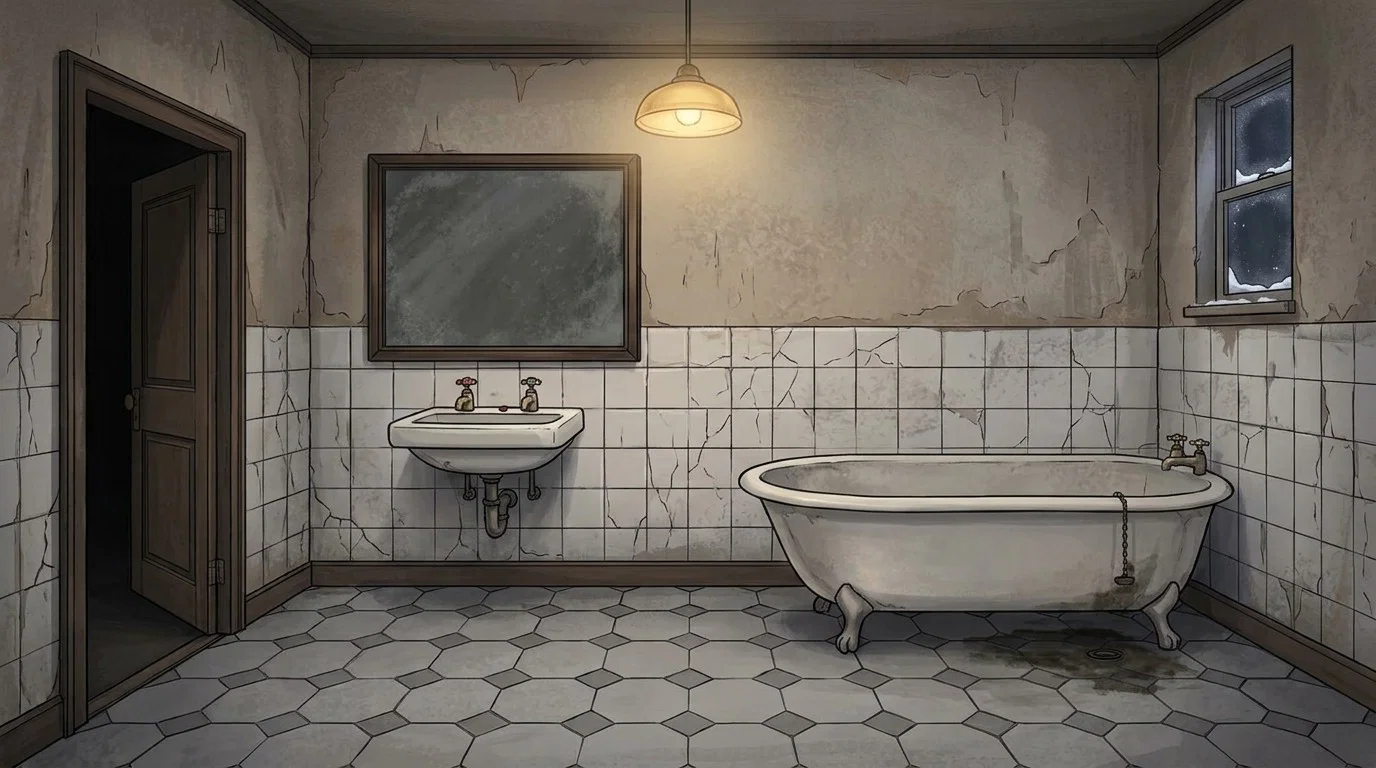
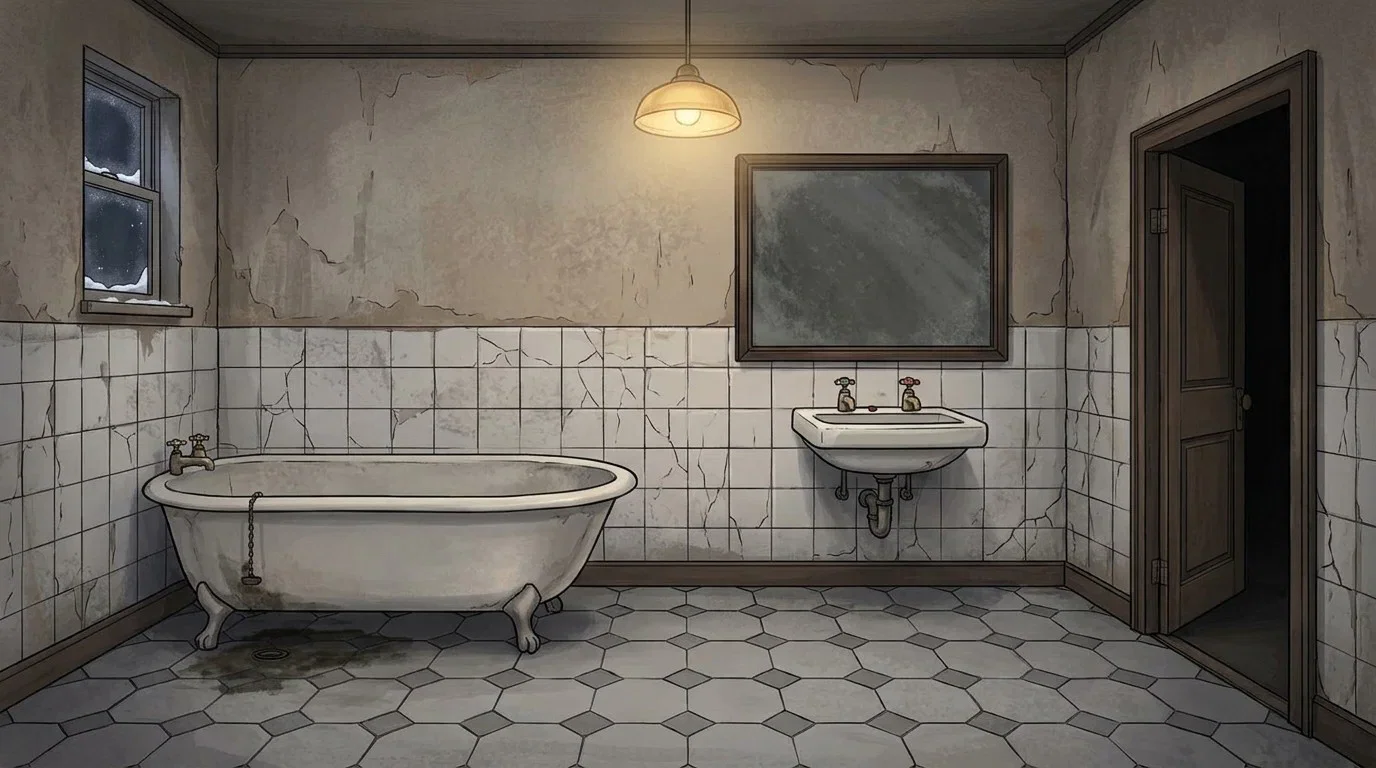
Mirror the bathroom so its door is on the right; add attic and Jingles
- The three bathroom pictures are flipped so the door matches the house
  plan; the click spots, present, digit and turns moved with them, and
  the highlight starts at the door. Tests follow the new left-to-right
  order.
- Real pictures for the attic and Scary Jingles asleep and awake
  (same armchair and size, so they can swap in place); credits updated.

diff --git a/godot/assets/CREDITS.md b/godot/assets/CREDITS.md
@@ -21,18 +21,18 @@ When real artwork replaces a placeholder, update its row: source, author, licenc
 |------|--------|--------|--------|---------|---------|-------|
 | room_garden.webp | images | generated with Google Gemini from our own text prompt | Gloria | AI-generated, own prompt | Yes (Google Gemini, Nano Banana 2.1) | 1376 x 768 |
 | room_hall.webp | images | generated with Google Gemini from our own text prompt | Gloria | AI-generated, own prompt | Yes (Google Gemini, Nano Banana 2.1) | 1376 x 768 |
-| room_attic.webp | images | `godot/tools/make_placeholders.gd` | team script | own work | No | placeholder |
+| room_attic.webp | images | generated with Google Gemini from our own text prompt | Gloria | AI-generated, own prompt | Yes (Google Gemini, Nano Banana 2.1) | stairs come up at the front left |
 | room_living_room_dark.webp | images | generated with Google Gemini from our own text prompt | Gloria | AI-generated, own prompt | Yes (Google Gemini, Nano Banana 2.1) | door on the right as in the house plan |
 | room_living_room_lit.webp | images | generated with Google Gemini from our own text prompt | Gloria | AI-generated, own prompt | Yes (Google Gemini, Nano Banana 2.1) | door on the right as in the house plan |
-| room_bathroom_dark.webp | images | generated with Google Gemini from our own text prompt | Gloria | AI-generated, own prompt | Yes (Google Gemini, Nano Banana 2.1) | edit of room_bathroom_lit, lamp off; tub shows empty, to redo with water, 1376 x 768 |
-| room_bathroom_lit.webp | images | generated with Google Gemini from our own text prompt | Gloria | AI-generated, own prompt | Yes (Google Gemini, Nano Banana 2.1) | 1376 x 768 |
-| room_bathroom_drained.webp | images | generated with Google Gemini from our own text prompt | Gloria | AI-generated, own prompt | Yes (Google Gemini, Nano Banana 2.1) | edit of room_bathroom_lit, tub drained, 1376 x 768 |
+| room_bathroom_dark.webp | images | generated with Google Gemini from our own text prompt | Gloria | AI-generated, own prompt | Yes (Google Gemini, Nano Banana 2.1) | edit of room_bathroom_lit, lamp off; tub shows empty, to redo with water, 1376 x 768; mirrored so the door is on the right |
+| room_bathroom_lit.webp | images | generated with Google Gemini from our own text prompt | Gloria | AI-generated, own prompt | Yes (Google Gemini, Nano Banana 2.1) | 1376 x 768; mirrored so the door is on the right |
+| room_bathroom_drained.webp | images | generated with Google Gemini from our own text prompt | Gloria | AI-generated, own prompt | Yes (Google Gemini, Nano Banana 2.1) | edit of room_bathroom_lit, tub drained, 1376 x 768; mirrored so the door is on the right |
 | room_bedroom_dark.webp | images | generated with Google Gemini from our own text prompt | Gloria | AI-generated, own prompt | Yes (Google Gemini, Nano Banana 2.1) | door on the left as in the house plan |
 | room_bedroom_lit.webp | images | generated with Google Gemini from our own text prompt | Gloria | AI-generated, own prompt | Yes (Google Gemini, Nano Banana 2.1) | door on the left as in the house plan |
 | char_snowman.png | images | Gemini (Google), generated image | Leon | own work (AI-generated) | Yes (Gemini) | white background removed with add_image.gd |
 | char_santa.png | images | Gemini (Google), generated image | Leon | own work (AI-generated) | Yes (Gemini) | white background removed with add_image.gd |
-| char_jingles_asleep.png | images | `godot/tools/make_placeholders.gd` | team script | own work | No | placeholder |
-| char_jingles_awake.png | images | `godot/tools/make_placeholders.gd` | team script | own work | No | placeholder |
+| char_jingles_asleep.png | images | generated with Google Gemini from our own text prompt | Gloria | AI-generated, own prompt | Yes (Google Gemini, Nano Banana 2.1) | asleep in his armchair, hugging the sack; white background removed |
+| char_jingles_awake.png | images | generated with Google Gemini from our own text prompt | Gloria | AI-generated, own prompt | Yes (Google Gemini, Nano Banana 2.1) | awake in the same armchair; white background removed |
 | char_nutcracker.png | images | Gemini (Google), generated image | Leon | own work (AI-generated) | Yes (Gemini) | white background removed with add_image.gd |
 | char_santa_green.png | images | Gemini (Google), generated image | Leon | own work (AI-generated) | Yes (Gemini) | green scarf, white background removed with add_image.gd |
 | char_santa_yellow.png | images | Gemini (Google), generated image | Leon | own work (AI-generated) | Yes (Gemini) | yellow scarf, white background removed with add_image.gd |
